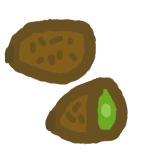
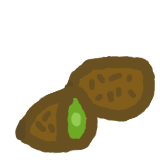
flightless kiwi and fix sabotage preview

diff --git a/src/routes/+page.svelte b/src/routes/+page.svelte
@@ -391,6 +391,8 @@
 		display: inline-block;
 		vertical-align: middle;
 		line-height: 1;
+		width: 1em;
+		height: 1em;
 	}
 	.ficon img {
 		position: absolute;